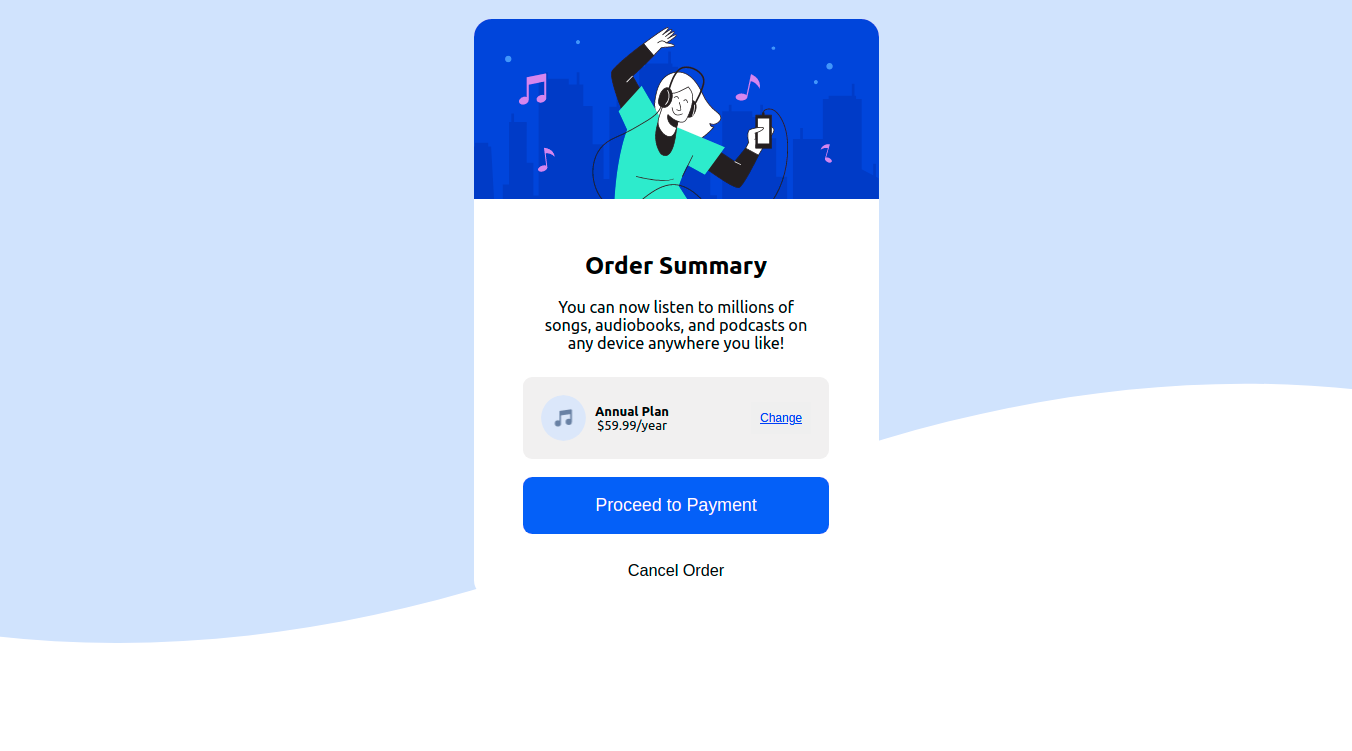
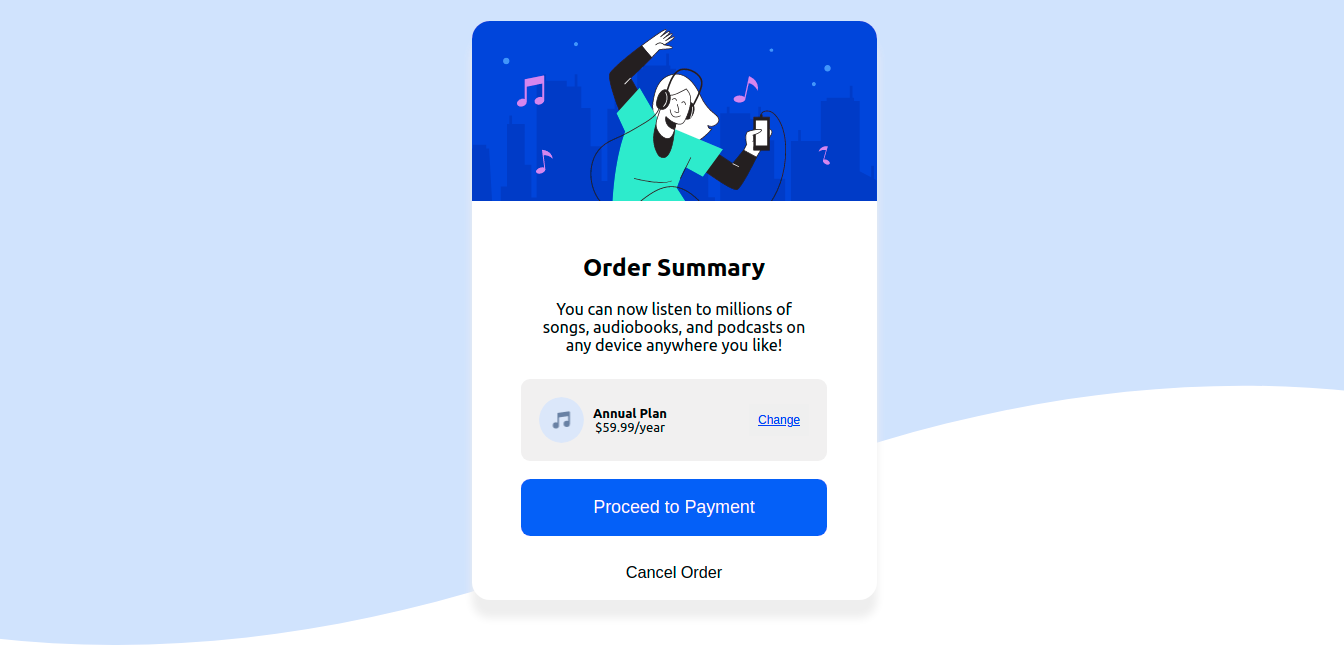
corregir

diff --git a/index.html b/index.html
@@ -4,6 +4,7 @@
   <meta charset="UTF-8">
   <meta http-equiv="X-UA-Compatible" content="IE=edge">
   <meta name="viewport" content="width=device-width, initial-scale=1.0">
+  <link rel="icon" href="img/N.png">
   <link rel="stylesheet" href="css/style.css">
   <title>Fullcard</title>
 </head>

diff --git a/css/style.css b/css/style.css
@@ -37,6 +37,7 @@ html {
 	margin: 0 auto;
 	background-color: #fff;
 	border-radius: 20px;
+	box-shadow: 0 20px 10px #eee;
 }
 
 /* card header */
